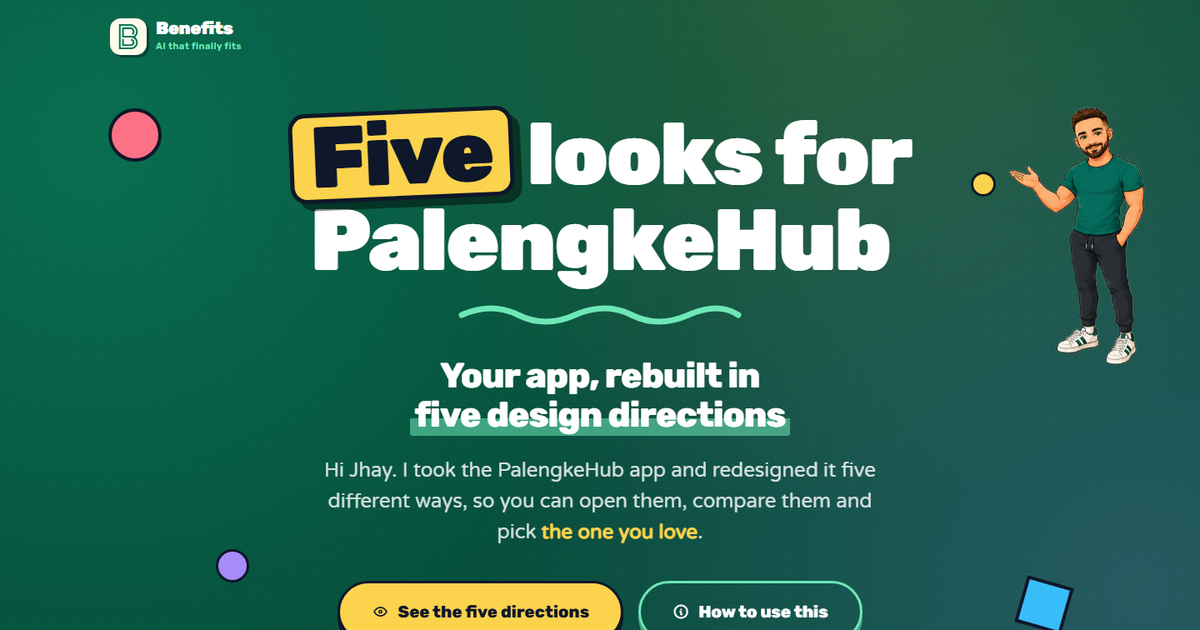
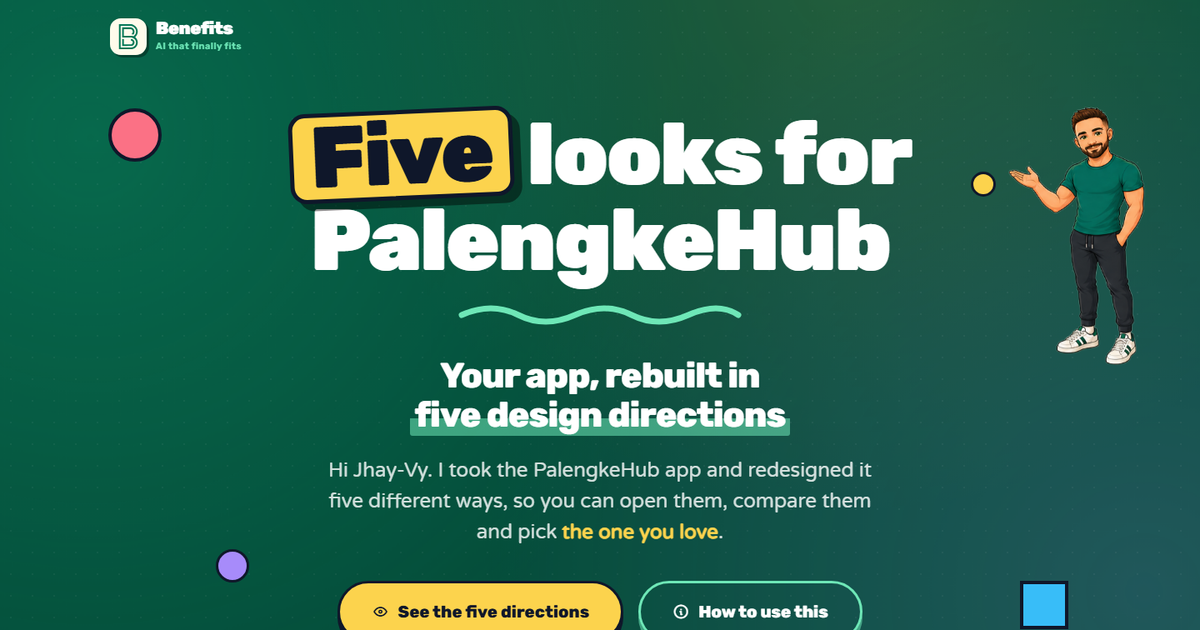
Use Jhay-Vy's full name on the index and refresh og image

Changed region(s): [[0.2467, 0.7238, 0.74, 0.8746], [0.8325, 0.9048, 0.8942, 1.0], [0.1233, 0.0302, 0.185, 0.0905]]

diff --git a/index.html b/index.html
@@ -316,7 +316,7 @@
     <h1><span class="stamp">Five</span> looks for PalengkeHub</h1>
     <svg class="hero__squiggle draw" viewBox="0 0 340 34" aria-hidden="true"><path d="M4,18 Q40,2 72,18 T140,18 T208,18 T276,18 T336,18"/></svg>
     <p class="hero__hline">Your app, rebuilt in <span class="u">five design directions</span></p>
-    <p class="hero__deck">Hi Jhay. I took the PalengkeHub app and redesigned it five different ways, so you can open them, compare them and pick <b>the one you love</b>.</p>
+    <p class="hero__deck">Hi Jhay-Vy. I took the PalengkeHub app and redesigned it five different ways, so you can open them, compare them and pick <b>the one you love</b>.</p>
     <div class="hero__benji" aria-hidden="true">
       <img src="assets/benefits/benjamin-presenting.png" alt="" width="269" height="478">
     </div>
@@ -630,7 +630,7 @@
 </script>
 
 <!-- ════════════════════════════════════════════════════════════════════
-  PalengkeHub design directions · table of contents for Jhay.
+  PalengkeHub design directions · table of contents for Jhay-Vy Adajar.
   Single file, no build. Benefits/Marko visual system: dark hero with the
   3-radial glow + 26px dot grain + parallax Memphis chips, sunshine stamp
   word, mint squiggle, kick/title/lead section heads, hard-ink cells with
